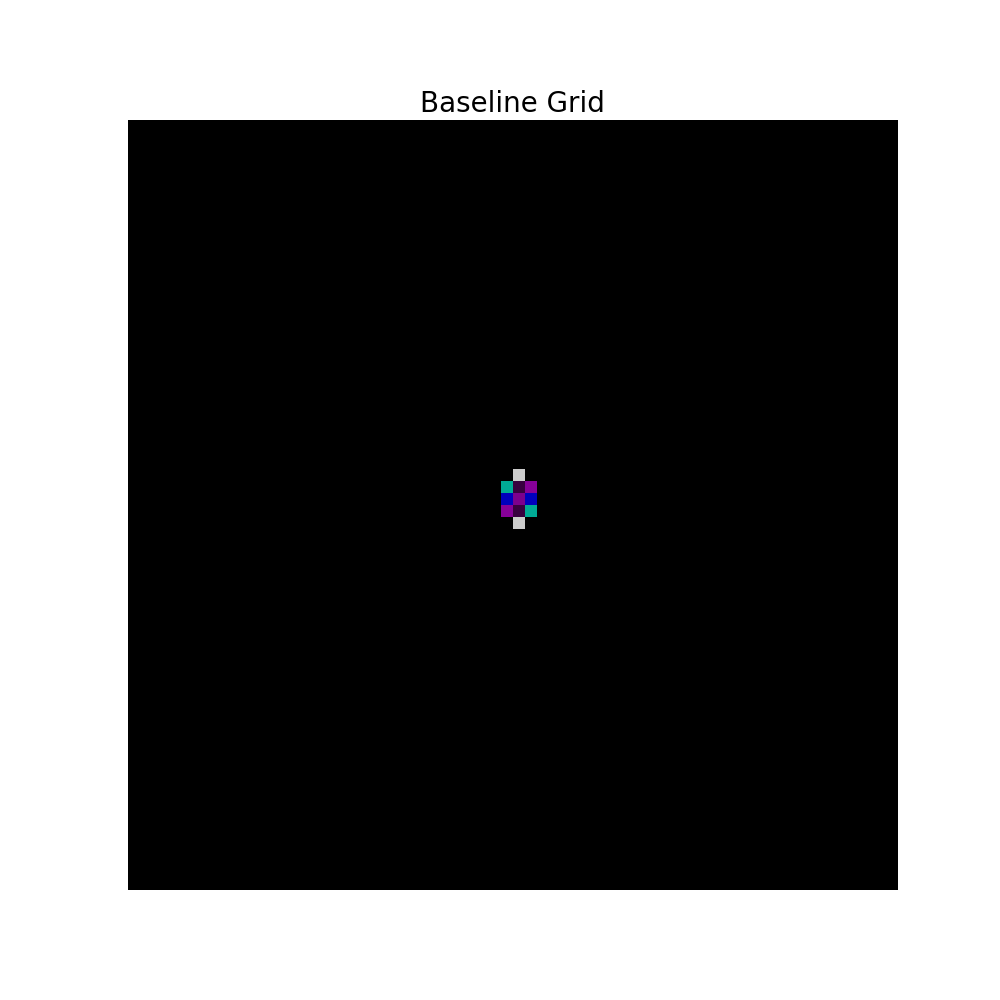
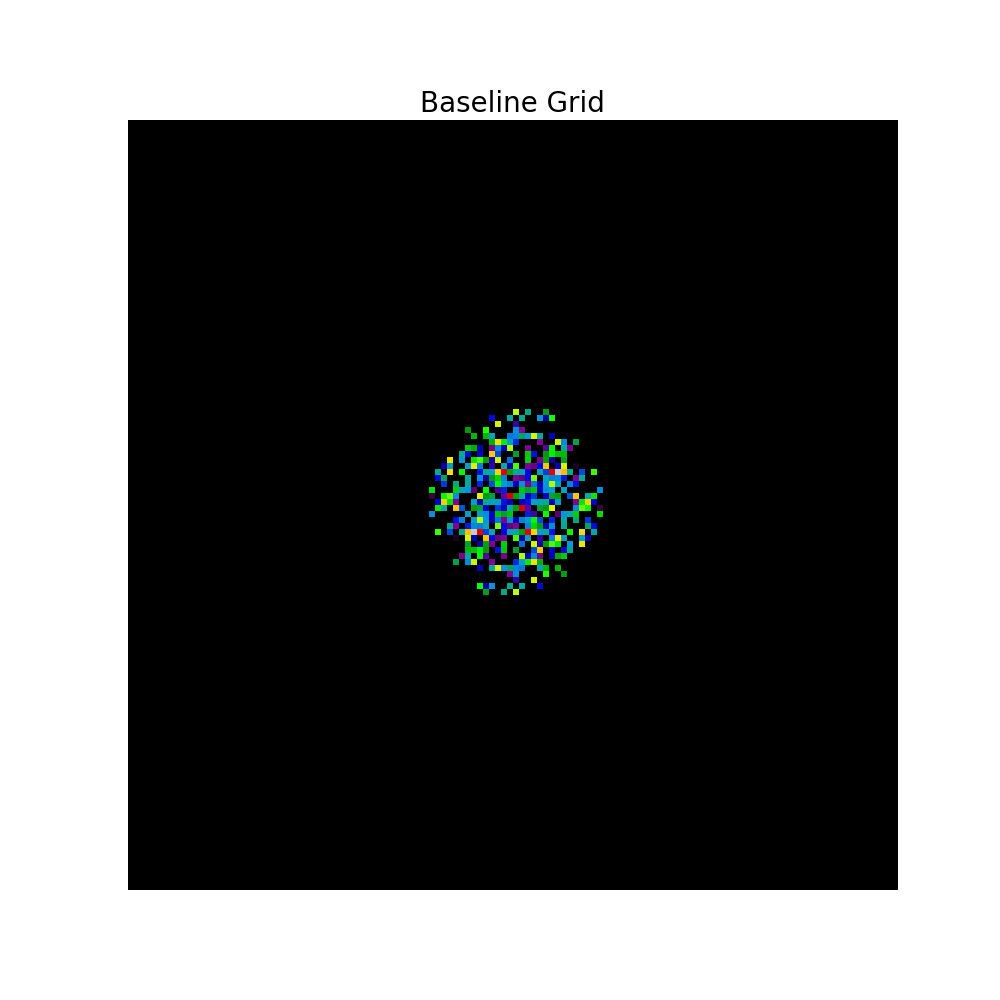
added the grid for TART

Changed region(s): [[0.434, 0.403, 0.62, 0.589]]

diff --git a/html/index.html b/html/index.html
@@ -12,9 +12,10 @@
           co = $("#cods").val()
           cell_size = $("#cell_size").val()
           resolusion = $("#resolusion").val()
-          cont = resolusion != "" && cell_size != "" && co != ""
+          loc = $("#loc").val()
+          cont = resolusion != "" && cell_size != "" && co != "" && loc != ""
           if (cont) {
-            $.post("/generate_graphs",{cos:co, cell_size:cell_size, res:resolusion})
+            $.post("/generate_graphs",{cos:co, cell_size:cell_size, res:resolusion, loc:loc})
              .done(function(string) {
                var unique = $.now();
                $('#antenna').attr('src', 'static/TARTAntennaLayout.png?' + unique);
@@ -22,6 +23,7 @@
                $('#visibilities').attr('src', 'static/Antenna_Visibilities.png?' + unique);
                $('#c_TART_reconstruction').attr('src', 'static/ReconstructedTARTSkyModel.png?' + unique);
                $('#c_TART_reconstruction_psf').attr('src', 'static/ReconstructedTARTPSF.png?' + unique);
+               $('#c_TART_grid').attr('src', 'static/TARTgrid.png?' + unique);
                alert("SUCCESS: Graphs Generated");
             });
           } else {
@@ -57,23 +59,7 @@
           e.preventDefault();
         });
       });
-      // $(document).ready( function () {
-  		// $('#form').submit( function () {
-      //   e.preventDefault();
 
-        // var input_file = $("#input_file").val().split("\\");
-        // var input = input_file[input_file.length()]
-        // $.post('generate_graphs', {input_file: }, function(data) { });
-
-  			// var formdata = $(this).serialize();
-  			// $.post({
-  			//     type: "POST",
-  			//     url: "generate_graphs",
-  			//     data: formdata,
-  			//  });
-  		// 	return false;
-  		// });
-  	// });
     $(document).ready(function() {
         $('input[id="input_file"]').change(function() {
         path = $("#input_file").val();
@@ -137,10 +123,6 @@
   </div>
     <d class="col-sm-10">
       <h1>{{ target }}</h1>
-      <!-- <form method="post" action="generate_graphs" enctype="multipart/form-data" id="form">
-          <input type="file" name="input_file" id="input_file">
-          <button type="submit" />Generate new graphs
-      </form> -->
       <select id="cods">
          <option value="1">l/m</option>
          <option value="2">RA/DEC</option>\
@@ -158,14 +140,15 @@
          </h4>
        </div>
        <div id="collapse1" class="collapse panel-collapse">
-         <button type="submit" id="generate_graphs" class="btn btn-default btn-primary">Generate new graphs</button>
+         <button type="submit" id="generate_graphs" class="btn btn-default btn-primary" style="margin-top: 0px;">Generate new graphs</button>
+         <select id="loc">
+            <option value="1">ZA</option>
+            <option value="2">NZ</option>\
+          </select>
          <br>
          <div class="col-sm-6 gr">
            <img src="static/TARTAntennaLayout.png" alt="antenna layout" id=antenna  width="512" height="400">
          </div>
-         <!-- <div class="col-sm-6 gr">
-           <img src="static/TARTUVCoverage.png" alt="baseline image" id=T_uv width="400" height="400">
-         </div> <br> -->
          <div class="gr">
            <img src="static/Antenna_Visibilities.png" alt="visibilities" id=visibilities width="512" height="384">
          </div>
@@ -177,6 +160,9 @@
            <img src="static/ReconstructedTARTPSF.png" alt="image alt text" id=c_TART_reconstruction_psf width="512" height="384">
          </div>
          <br>
+         <div>
+           <img src="static/TARTgrid.png" alt="image alt text" id=c_TART_grid width="512" height="384">
+         </div>
        </div>
      </div>
      <div class="panel panel-default">
@@ -190,13 +176,11 @@
          <label class="btn btn-default btn-primary" id="input_label">
            AntennaLayout <input type="file" name="input_file" id="input_file" class="but">
          </label>
-         <!-- <input type="file" name="input_file" id="input_file"> -->
          <label class="btn btn-default btn-primary" id="lsm_label">
            LSM File <input type="file" name="lsm_file" id="lsm_file" class="but">
          </label>
 
          <br>
-         <!-- <input type="file" name="lsm_file" id="lsm_file"> -->
          <button type="submit" id="generate_custom_graphs" class="btn btn-default btn-primary">Generate custom layout graphs</button><br>
          <div class="col-sm-6">
            <img src="static/CustomAntennaLayout.png" alt="image alt text" id=c_antenna  width="512" height="384">
@@ -228,12 +212,6 @@
     </d>
     <div class="col-sm-1">
     </div>
-    <!-- <div class="col-sm-6">
-      <img src="static/TARTAntennaLayout.png" alt="image alt text" id=antenna  width="512" height="384">
-    </div>
-    <div class="col-sm-6">
-      <img src="static/Antenna_Visibilities.png" alt="image alt text" id=visibilities width="512" height="384">
-    </div> <br> -->
 
   {% endblock %}
 </html>

diff --git a/TARTRequests.py b/TARTRequests.py
@@ -1,29 +1,35 @@
 import requests
 
-def antenna_layout():
-    # SU
-    # r = requests.get("http://146.232.222.105/api/v1/imaging/antenna_positions")
-    # NZ
-    r = requests.get("https://tart.elec.ac.nz/signal/api/v1/imaging/antenna_positions")
+def antenna_layout(loc):
+    if loc == "1":
+        # SU
+        r = requests.get("http://146.232.222.105/api/v1/imaging/antenna_positions")
+    else:
+        # NZ
+        r = requests.get("https://tart.elec.ac.nz/signal/api/v1/imaging/antenna_positions")
     if not r.status_code == 200:
         return "Error retreiving antenna positions"
     return r.json()
 
-def get_visibilities():
-    # SU
-    # r = requests.get("http://146.232.222.105/api/v1/imaging/vis")
-    # NZ
-    r = requests.get("https://tart.elec.ac.nz/signal/api/v1/imaging/vis")
+def get_visibilities(loc):
+    if loc == "1":
+        # SU
+        r = requests.get("http://146.232.222.105/api/v1/imaging/vis")
+    else:
+        # NZ
+        r = requests.get("https://tart.elec.ac.nz/signal/api/v1/imaging/vis")
 
     if not r.status_code == 200:
         return "Error retreiving visibilities"
     return r.json()
 
-def get_latitude_and_frequency():
-    # SU
-    # r = requests.get("http://146.232.222.105/api/v1/info")
-    # NZ
-    r = requests.get("https://tart.elec.ac.nz/signal/api/v1/info")
+def get_latitude_and_frequency(loc):
+    if loc == "1":
+        # SU
+        r = requests.get("http://146.232.222.105/api/v1/info")
+    else:
+        # NZ
+        r = requests.get("https://tart.elec.ac.nz/signal/api/v1/info")
     if not r.status_code == 200:
         return "Error retreiving latitude"
     info = r.json()["info"]

diff --git a/Pipeline.py b/Pipeline.py
@@ -9,12 +9,12 @@ env = Environment(loader=FileSystemLoader('html'))
 
 class pipeline(object):
 
-    def get_antenna_layout(self):
-        layoutJSON = TR.antenna_layout()
+    def get_antenna_layout(self, loc):
+        layoutJSON = TR.antenna_layout(loc)
         return np.array(layoutJSON)
 
-    def make_vis_matrix(self):
-        vis = TR.get_visibilities()
+    def make_vis_matrix(self, loc):
+        vis = TR.get_visibilities(loc)
         vis = np.array(vis["data"])
         i,j = self.parse_vis(vis)
         vis_matrix = np.zeros((i+1, j+1)).astype(complex)
@@ -69,11 +69,11 @@ class pipeline(object):
             ut.image(uv, uv_tracks, cell_size, cos, dec_0, res, "CUSTOM")
 
     @cherrypy.expose
-    def generate_graphs(self, cos=None, cell_size=None, res=None):
-        if res is not "" and cos is not "" and cell_size is not "":
-            layout = self.get_antenna_layout()
-            L,f = TR.get_latitude_and_frequency()
-            visibilities = self.make_vis_matrix()
+    def generate_graphs(self, cos=None, cell_size=None, res=None, loc=None):
+        if res is not "" and cos is not "" and cell_size is not "" and loc is not "":
+            layout = self.get_antenna_layout(loc)
+            L,f = TR.get_latitude_and_frequency(loc)
+            visibilities = self.make_vis_matrix(loc)
             ut.plot_array(layout, "TART")
             #dec_0 is 0
             # h = np.linspace(h0,h1,num=600)*np.pi/12

diff --git a/Utilities.py b/Utilities.py
@@ -255,7 +255,6 @@ def image(uv, uv_tracks, cell_size, cos, dec_0, res, name):
     # plt.xlabel("l", size=18)
     # plt.ylabel("m", size=18)
     plt.savefig('Plots/' + name + 'grid.png', transparent=True)
-    print(cos)
     if cos == "1":
         L = np.cos(dec_0) * np.sin(0)
         M = np.sin(dec_0) * np.cos(dec_0) - np.cos(dec_0) * np.sin(dec_0) * np.cos(0)
